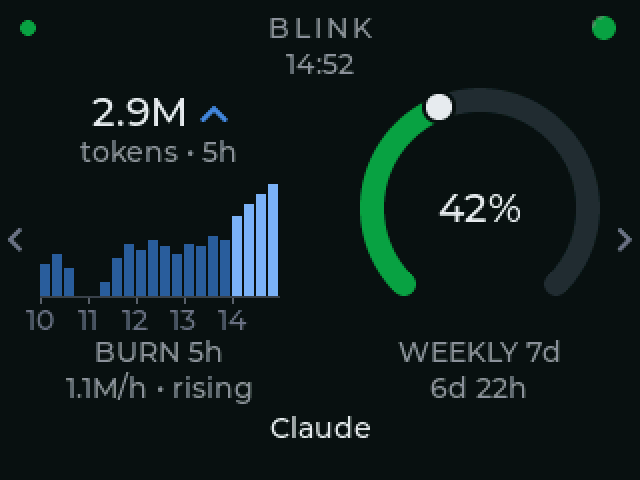
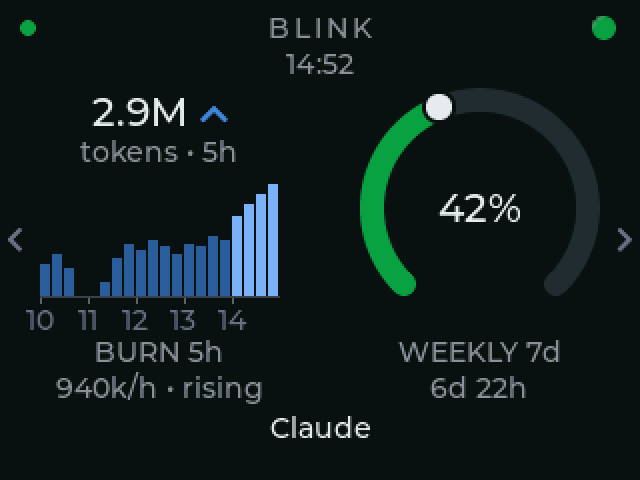
docs: the README's burn and builder screenshots show the corrected rate
The burn view's rate now counts complete quarter-hours only, so the
firmware's render of the sample reads 940k/h where it read 1.1M/h, and the
builder's sample reads 483k/h where it read 710k/h. Both screenshots are
retaken from the current code, and the alt text follows.

Changed region(s): [[0.0625, 0.7812, 0.4062, 0.8438]]

diff --git a/README.md b/README.md
@@ -83,7 +83,7 @@ this.
     <td width="25%"><img src="docs/img/screen-claude.png" alt="The Claude page: six coloured marks in the top-left corner, one per live session, the clock under the BLINK wordmark, and the session and weekly dials."></td>
     <td width="25%"><img src="docs/img/screen-codex.png" alt="The Codex page, with its own session and weekly dials."></td>
     <td width="25%"><img src="docs/img/screen-desktop.png" alt="Claude Desktop alone: the session dial shows a fill rate where a countdown would otherwise be."></td>
-    <td width="25%"><img src="docs/img/screen-burn.png" alt="An account with no five-hour window: the left half shows 2.9M tokens in five hours with an up arrow, a bar per quarter-hour labelled 10 to 14, and 1.1M/h rising; the weekly dial stays on the right."></td>
+    <td width="25%"><img src="docs/img/screen-burn.png" alt="An account with no five-hour window: the left half shows 2.9M tokens in five hours with an up arrow, a bar per quarter-hour labelled 10 to 14, and 940k/h rising; the weekly dial stays on the right."></td>
   </tr>
   <tr>
     <td align="center"><sub><b>Claude</b></sub>&nbsp;</td>
